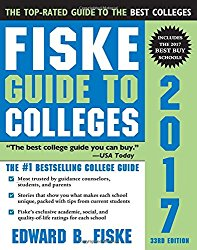
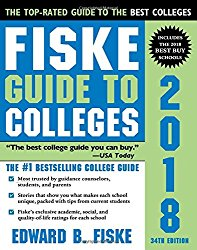
home page

diff --git a/Intangibles/index.html b/Intangibles/index.html
@@ -96,7 +96,7 @@
   </div>
   <div class = "content">
     <p>While stressing the importance of establishing yourself as likeable in the ‘kindness’ section, it seems only fitting that I talk about leadership positions next.</p>
-    <img class = "fri" src = "boat.jpg" width= 40%></img>
+    <img class = "fri" src = "boat.jpg" style = "width: 40%; margin-left: 10px; margin-bottom: 10px;"></img>
     <p>This is one of my more opinion-based ideas.</p>
     <p>‘Leadership’ is primarily used for admissions officers to see if you are well-liked or, at least, respected amongst your peers. Most high school clubs are primarily run by the advisors (teachers) and colleges are aware of this. Being in a leadership position, though, shows that you were brave enough to go for it.</p>
       <p><span style = "font-weight: bold; color: darkblue">Having election-based leadership positions is often more valuable; leadership is a great indicator for admissions officers of your likeability and how respected you are amongst peers.</span></p>
@@ -112,10 +112,10 @@
     <p>I will address the controversial idea of diversity in college admissions, but only because it relates to how you present yourself. </p>
     <p>Colleges look to construct a diverse class of students that will bring to the table different experiences, backgrounds, and interests. This will help their students learn about the world and become more open-minded. Students will be exposed to a variety of perspectives.</p>
     <p>Colleges don’t discriminate against race but rather <span style = "font-style: italic; color: darkblue; font-weight: bold">similarity</span>.
-    <p>Races are often good indicators of different backgrounds and experiences, though.</p>
+    <p>Races are often good indicators of different backgrounds and experiences, though.</p><br>
     <div class = "container">
     <img src = "apples.jpg" style = "width: 100%; min-height: 400px;"><div class = "wot" style = "width: 93%;font-size: 2.5vw;top: 24%;"><p>Showcasing your uniqueness and character is crucial and involves focusing on your strongest intangible(s) or desirable trait(s). </p></div></img>
-    </div>
+  </div><br>
     <p>This article from BusinessInsider has quotes from a former Dartmouth Admissions Officer about the ‘secrets’ of admissions. It mainly focuses on race, though. </p>
     <p>One quote I’ll share is,
     <span style = "font-style: italic; color: darkblue">"you do find that some Asians can be disadvantaged in the process, and not only because admissions committees think about Asians in a specific way, but because recommenders do too. When reading recommendations you see these words—"diligent," "hardworking"—because people tend to see East Asians in a certain way. You rarely see "creative" or "strong intellectual bent," and they are less likely to be seen as "freethinking." Same with issues of character. A lot of secondary teachers find it difficult to connect culturally with Asian Americans and the type of things they end up doing, so they won't see as much talk about character.</span>"<br><a href = "http://www.businessinsider.com/secrets-of-dartmouth-admissions-office-2012-10">http://www.businessinsider.com/secrets-of-dartmouth-admissions-office-2012-10</a>

diff --git a/index.html b/index.html
@@ -89,11 +89,10 @@ ga('send', 'pageview');</script>
   </div>
     <div class = "content">
       <br>In 2017, 80+% of students who apply to top schools are academically qualified. Colleges choose between students with similar GPA’s, scores, and often extracurriculars. How do they choose?</p>
-	<br><p>Beyond grades and scores lie the "little things," <span style = "font-style: italic">the intangibles</span>, that admissions officers look for. Traits like intellectual curiosity and kindness are often the differentiating factors between the student with a 4.0 and 1480 SAT getting accepted over another with a 4.0 and 1480.</p><br><br><div class = "container"><img src = "grad.jpg" style = "width: 80%; display: block; margin-left: auto; margin-right: auto;"> <span style = "width: 70%;position: absolute;top: 40%;left: 52%;transform: translate(-50%, -50%);font-size: 2.2vw;font-weight: 900;">This site focuses on the factors beyond grades, scores, and extra-curriculars that translate to acceptances and bigger merit aid packages.</div></img></div>
-  <div class = "content"><br><p>I got into an Ivy League School, Dartmouth College, from that 80% of academically qualified. Nothing I did was extraordinary and I am not a recruited athlete, ‘hooked’ applicant (minority, first generation, legacy, low income, etc) and wasn't in the top 1% of my public high school.</p>
-  <p>Dartmouth accepts <a href = "https://news.dartmouth.edu/news/2017/03/2092-students-are-offered-admission-class-2021">10% of applicants</a>. They differentiate through these intangibles.</p>
-  <p>Students work hard all through high school only to neglect to show these desired qualities to colleges. They fail to understand these nuances and become one of many 'academically qualified' rejects. </p>
-  <p> It is my goal to educate you on the factors that differentiate college applicants.</p><br>
+	<br><p>Beyond grades and scores lie the "little things," <span style = "font-style: italic">the intangibles</span>, that admissions officers look for. Traits like intellectual curiosity and intrinsic motivation are often the differentiating factors between the student with a 4.0 and 1480 SAT getting accepted over another with a 4.0 and 1480.</p><br><img src = "johns.jpg" style = "width: 67%; display: inline-block; float: right; border-style: solid; margin-left: 1.8vw">
+</img><br><br><br><span style = "font-weight: bold; font-size: 2.1vw; color: darkblue">This site focuses on the factors beyond grades, scores, and extra-curriculars that translate to acceptances and bigger merit aid packages.</span><br><br><br><br>
+  <br><br><p>Students work hard all through high school only to neglect to show these desired qualities to colleges. They fail to understand these nuances and become one of many 'academically qualified' rejects. </p>
+  <br><p>It is my goal to educate you on the factors that differentiate college applicants.</p><br>
 </div><br>
     <div class = "title">
       <p>Site Structure</p>

diff --git a/What Schools to Apply To/index.html b/What Schools to Apply To/index.html
@@ -40,12 +40,9 @@
 <p>Every school you apply to you need to be at least okay with attending. If you aren’t, then that school isn’t even useful as a safety.</p>
 <p>You also need to be realistic with your choices. Capitalizing on all of these intangibles still probably won’t get you accepted if your standardized test scores or grades aren’t in the range of students who are accepted. <span style = "font-weight: bold; color: darkblue">Be optimistic but don’t be unrealistic</span> (if you are an ‘unhooked’ applicant you should aim to be in the top 25% or above average stat wise- grades and test scores). </p>
 <p>I can’t talk about all the schools you will be looking at. I will recommend what I think is the most comprehensive guide to explaining all the different colleges. It is invaluable to be able to simply flip to a page and learn more than enough about that college. </p>
-  <div class = "book"><a href = "https://www.amazon.com/gp/product/1402260679/ref=as_li_qf_sp_asin_il_tl?ie=UTF8&tag=collegeadmi00-20&camp=1789&creative=9325&linkCode=as2&creativeASIN=1402260679&linkId=398ce2c96eacd40fe3e139e1c3a9010e"><img src = "fiskecover.jpg" width = "150" heigh = "450"/></a></div>
+  <div class = "book"><a href = "https://www.amazon.com/gp/product/1402260687/ref=as_li_qf_sp_asin_il_tl?ie=UTF8&tag=collegeadmi00-20&camp=1789&creative=9325&linkCode=as2&creativeASIN=1402260687&linkId=8f4b68237ace7dbbcba43dd60802126b"><img src = "fiskecover.jpg" width = "150" heigh = "450"/></a></div>
   <div class = "link">
-    <a href = "https://www.amazon.com/gp/product/1402260679/ref=as_li_qf_sp_asin_il_tl?ie=UTF8&tag=collegeadmi00-20&camp=1789&creative=9325&linkCode=as2&creativeASIN=1402260679&linkId=398ce2c96eacd40fe3e139e1c3a9010e"> Amazon Link to 'Fiske Guide to Colleges 2017'</a>
-  </div>
-  <div class = "link">
-    <a href = "https://www.amazon.com/gp/product/1402260687/ref=as_li_qf_sp_asin_il_tl?ie=UTF8&tag=collegeadmi00-20&camp=1789&creative=9325&linkCode=as2&creativeASIN=1402260687&linkId=8f4b68237ace7dbbcba43dd60802126b"> Amazon Link to 'Fiske Guide to Colleges 2018' (it will be out July 11 2017 so you can preorder it)</a>
+    <a href = "https://www.amazon.com/gp/product/1402260687/ref=as_li_qf_sp_asin_il_tl?ie=UTF8&tag=collegeadmi00-20&camp=1789&creative=9325&linkCode=as2&creativeASIN=1402260687&linkId=8f4b68237ace7dbbcba43dd60802126b"> Amazon Link to 'Fiske Guide to Colleges 2018'</a>
   </div></div>
 
 <div class = "title">

diff --git a/About Me/index.html b/About Me/index.html
@@ -37,7 +37,9 @@
   </div>
   <div class = "content">
     <p> My name is Jack Duffy. I decided to create this site after observing friends and peers just as academically qualified as me fail to get in to top schools for not understanding the nuances and hidden factors behind admissions.</p>
-    <img class = "fri" style = "width: 15%" src = "me.JPG"></img>
+    <img class = "fri" style = "width: 17%; margin-left: 10px;" src = "me.JPG"></img>
+    <p>I got into an Ivy League School, Dartmouth College, from the 80% of academically qualified. Nothing I did was extraordinary and I am not a recruited athlete, ‘hooked’ applicant (minority, first generation, legacy, low income, etc) and wasn't in the top 1% of my public high school.</p>
+    <p>Dartmouth accepts <a href = "https://news.dartmouth.edu/news/2017/03/2092-students-are-offered-admission-class-2021">10% of applicants</a>. They differentiate through the intangibles.</p>
     <p>I realized the way I approached the admissions process wasn’t as common as I had previously thought. The time spent analyzing and understanding these nuances and intangibles could then be of much more value in the hands of others helping them get into college.</p>
     <p>I am an 18 year old graduating high school senior in the PA area. Entering Dartmouth come fall I am unclear on my major, but entrepreneurship is interesting to me. My parents both went to an average college and my brother graduated from Cornell University in 2017.</p>
     <p>I say all this only to establish that I am not extraordinary. I just have learned a lot about the admission process.</p>
